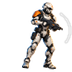
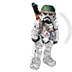
Art: hand-traced v6 sprites for the stormtrooper sergeant and clone trooper
The automatic cut-out lost their white armour on the white marble and
image generation was blocked, so import_sheet_sprites.py now accepts a
hand-traced outline per unit (pale marble just inside the trace is
trimmed). Both units get the traced standing sprite and derived frames.

diff --git a/production/tools/import_sheet_sprites.py b/production/tools/import_sheet_sprites.py
@@ -11,7 +11,8 @@ branding and hundreds of characters we do not use. Only the extracted
 sprites of the mapped units are written.
 
 For each unit in sheet_sprite_map.json ({unit_id: {"at": [x, y], ...}};
-optional "keep_radius", "close" and "erase", see extract and closed_background;
+optional "keep_radius", "close", "erase" and "outline", see extract,
+closed_background and traced;
 "skip" lists a unit whose cut-out is not yet clean enough to import):
   1. crop around the given point on the sheet;
   2. remove the background: the light, unsaturated marble and the grey
@@ -126,8 +127,32 @@ def components(mask: np.ndarray) -> np.ndarray:
     return labels
 
 
+def traced(crop: np.ndarray, outline: list[list[int]], origin: tuple[int, int], trim: int = 2) -> Image.Image:
+    """A sprite cut out along a hand-traced outline (sheet coordinates): the
+    white figures whose dark outline has gaps the background fill leaks
+    through. Pale marble pixels just inside the trace are trimmed, up to
+    `trim` px in from the outside; the figure's darker outline stops the trim."""
+    poly = Image.new("L", (crop.shape[1], crop.shape[0]), 0)
+    ImageDraw.Draw(poly).polygon([(x - origin[0], y - origin[1]) for x, y in outline], fill=255, outline=255)
+    keep = np.asarray(poly) > 0
+    rgb = crop[..., :3].astype(int)
+    pale = ((rgb.max(-1) - rgb.min(-1)) <= 26) & (rgb.max(-1) >= 205)
+    for _ in range(trim):
+        outside = ~keep
+        edge = np.zeros_like(keep)
+        edge[1:] |= outside[:-1]
+        edge[:-1] |= outside[1:]
+        edge[:, 1:] |= outside[:, :-1]
+        edge[:, :-1] |= outside[:, 1:]
+        keep &= ~(edge & pale)
+    out = crop.copy()
+    out[~keep, 3] = 0
+    img = Image.fromarray(out.astype(np.uint8), "RGBA")
+    return img.crop(img.getbbox())
+
+
 def extract(sheet: Image.Image, at: tuple[int, int], keep_radius: int = 2, close: int = 0,
-            erase: list[list[int]] = ()) -> Image.Image:
+            erase: list[list[int]] = (), outline: list[list[int]] | None = None) -> Image.Image:
     x, y = at
     box = (max(0, x - CROP), max(0, y - CROP), min(sheet.width, x + CROP), min(sheet.height, y + CROP))
     crop = np.asarray(sheet.crop(box).convert("RGBA")).copy()
@@ -135,6 +160,8 @@ def extract(sheet: Image.Image, at: tuple[int, int], keep_radius: int = 2, close
     # character (a set-down helmet, a pet) and would otherwise be kept with it.
     for x0, y0, x1, y1 in erase:
         crop[max(0, y0 - box[1]):max(0, y1 - box[1]), max(0, x0 - box[0]):max(0, x1 - box[0]), 3] = 0
+    if outline:
+        return traced(crop, outline, box[:2])
     candidate = background_mask(crop[..., :3].astype(int))
     removed = closed_background(candidate, close) if close else flood_from_border(candidate)
     labels = components(~removed & (crop[..., 3] > 0))
@@ -178,7 +205,7 @@ def main() -> int:
             print(f"{unit_id}: skipped: {entry['skip']}")
             continue
         base = fit(extract(sheet, tuple(entry["at"]), entry.get("keep_radius", 2), entry.get("close", 0),
-                           entry.get("erase", [])))
+                           entry.get("erase", []), entry.get("outline")))
         reason = degenerate_reason(base, PIXEL_ART_MIN_COLORS)
         if args.preview:
             if reason:

diff --git a/docs/ART_CREDITS.md b/docs/ART_CREDITS.md
@@ -16,6 +16,8 @@ their 12 unit frames. Portraits are not from the sheet.
 
 Units whose sprite frames come from the sheet:
 
+- `sw-unit-im-stormtrooper-sergeant` (hand-traced)
+- `sw-unit-im-clone-trooper` (hand-traced)
 - `sw-hero-luke`
 - `sw-hero-leia`
 - `sw-hero-han`
@@ -41,11 +43,9 @@ Units whose sprite frames come from the sheet:
 - `sw-unit-wk-warrior`
 - `sw-unit-wk-lookout`
 
-Mapped but not imported yet (their earlier art is kept):
-
-- `sw-hero-thrawn`: white figure on the white marble with a broken outline; the cut-out loses most of the body
-- `sw-unit-im-stormtrooper-sergeant`: white armour on the white marble; the cut-out loses the legs
-- `sw-unit-im-clone-trooper`: white figure on the white marble with a broken outline; the cut-out loses most of the body
+Also from the sheet, but not cut out by the importer: `sw-hero-thrawn`. The
+cut-out lost most of the body (white figure on the white marble), so Codex
+redrew the standing sprite from its sheet crop.
 
 ## Other fan sprite references (owner-confirmed permission, 2026-10-04)
 
@@ -56,8 +56,8 @@ Codex redraws or restyles each one in the SacraiCross house style. Installed
 
 - SacraiCross: `sw-hero-thrawn` was redrawn from the v6 sheet (the Tarot card
   version was not used).
-- MiddytheKnight (sprites by zerorunner67): stored, not used (the clone trooper
-  keeps its earlier art; image generation was blocked).
+- MiddytheKnight (sprites by zerorunner67): stored, not used. The clone trooper
+  comes from the v6 sheet instead (hand-traced, below).
 - Milosh--Andrich: `sw-unit-im-scout-trooper`.
 - Codemus: `sw-unit-im-noghri`, `sw-hero-khabarakh`.
 - danyelon: `sw-unit-im-tie-fighter`, `sw-unit-nr-xwing`, `sw-hero-wedge`,
@@ -78,3 +78,12 @@ standing sprite. OpenAI's image safety system blocked some animations for
 `sw-hero-chewbacca` (move, melee, death) and `sw-unit-im-stormtrooper` (melee,
 defend, death), so those keep frames derived from the standing sprite. Ship
 frames are all derived from their standing sprite.
+
+## Hand-traced sheet sprites
+
+`sw-unit-im-stormtrooper-sergeant` and `sw-unit-im-clone-trooper` are white
+figures on the sheet's white marble, which the automatic cut-out could not
+separate, and OpenAI's image safety system blocked Codex redraws. Their sprites
+are cut out of the v6 sheet along hand-traced outlines (`outline` in
+`sheet_sprite_map.json`), and all their frames are derived from that standing
+sprite. Both are SacraiCross art under CC BY-SA, like the other sheet units.
